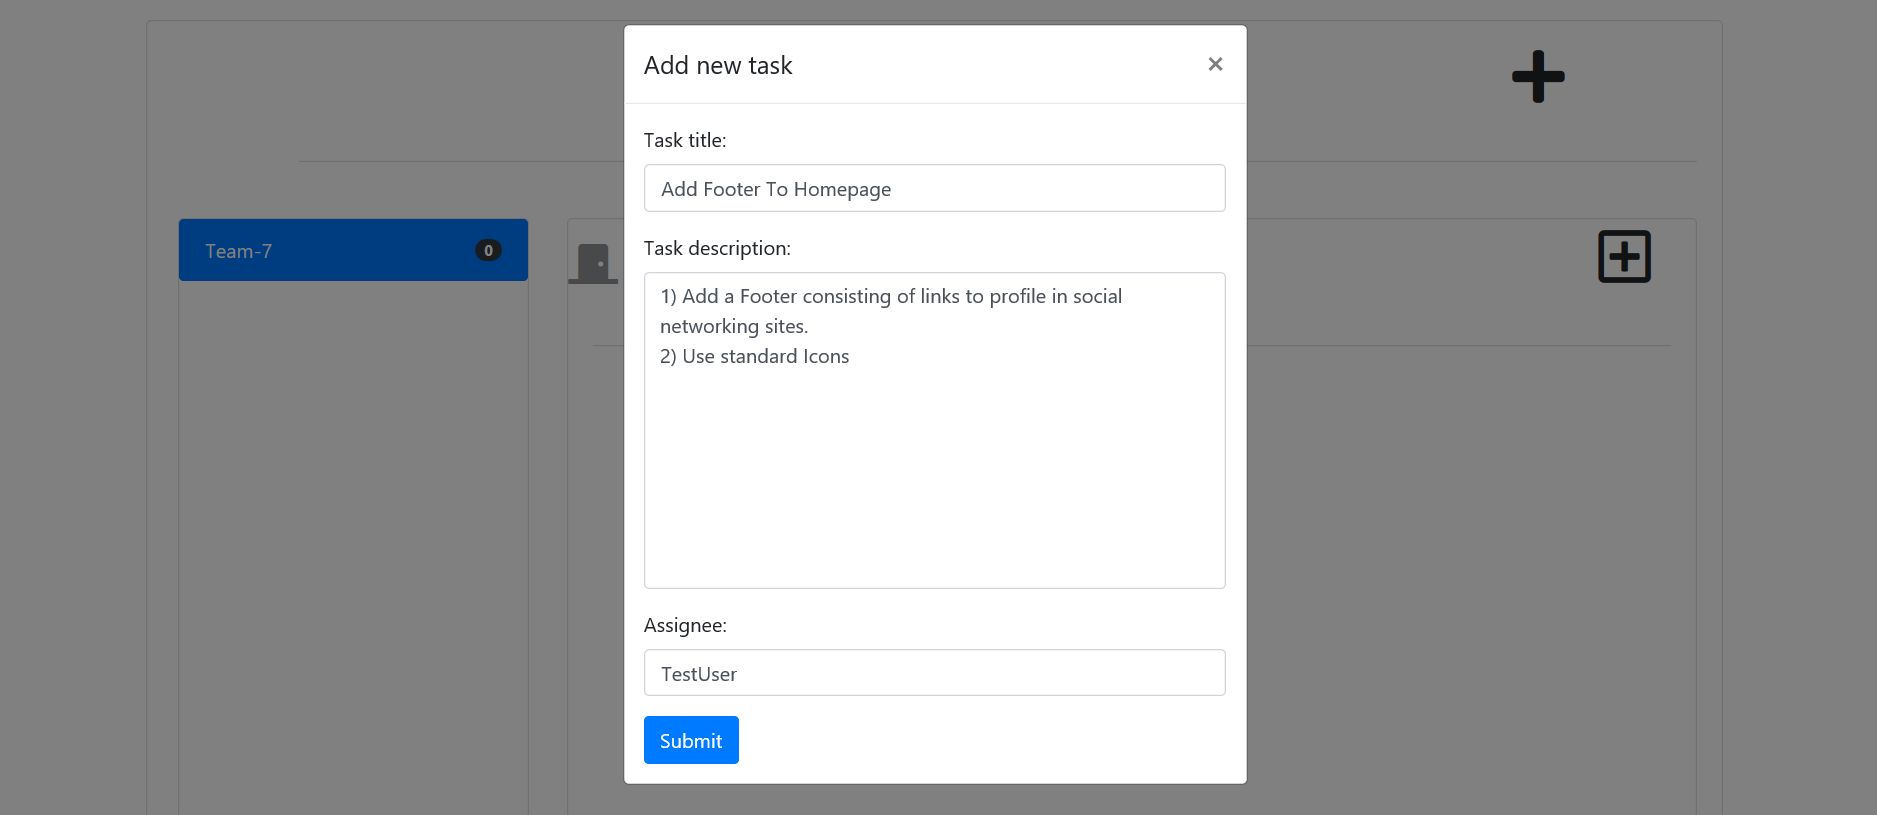
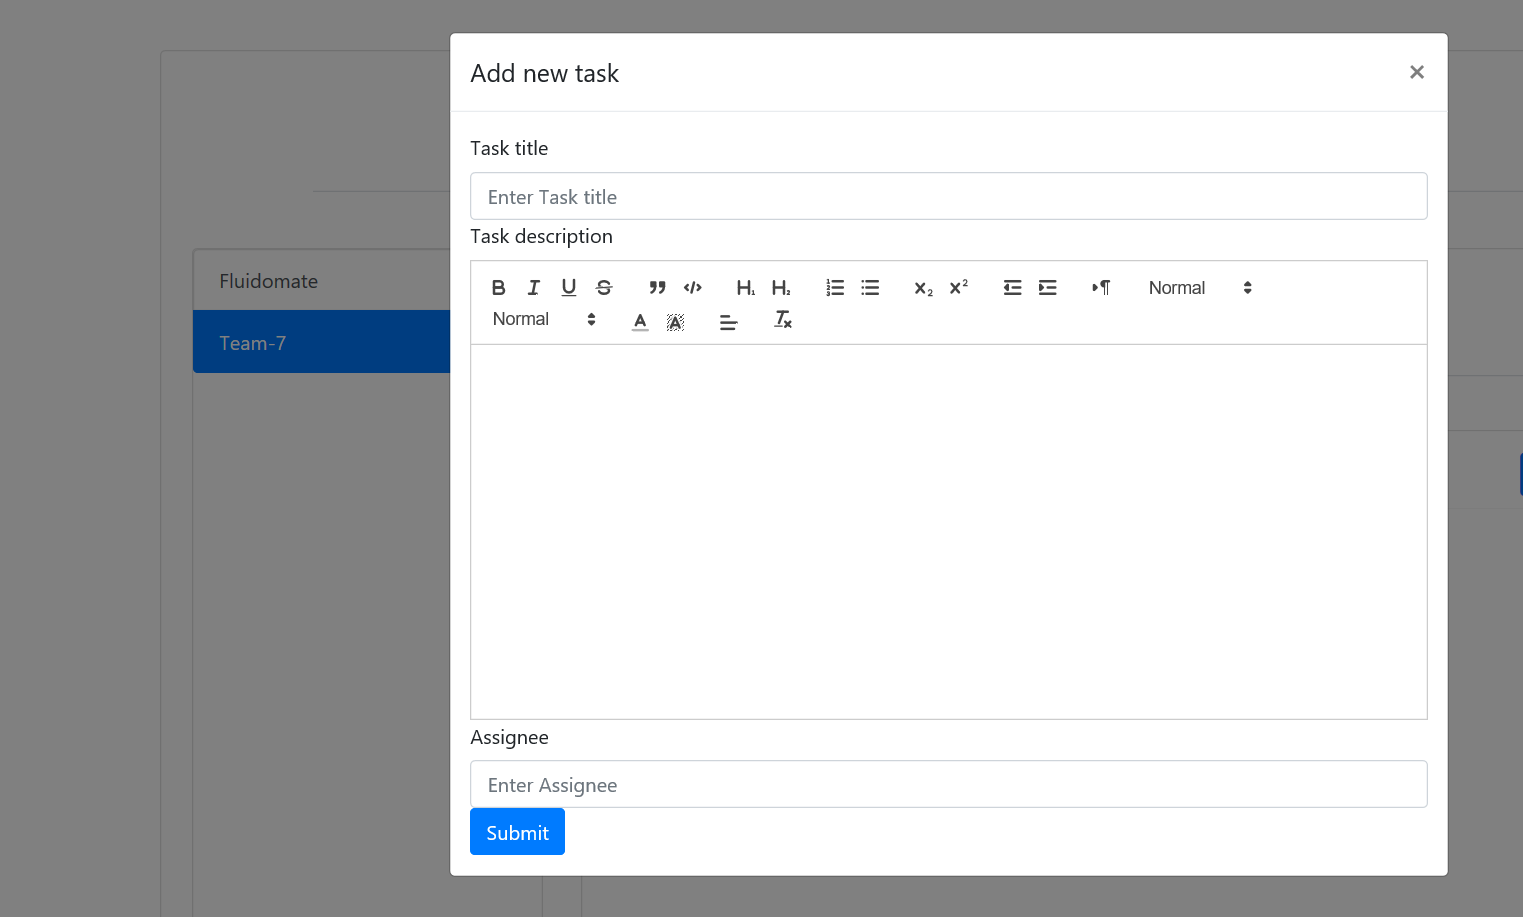
Added Rich text editor(Quill)

diff --git a/Main/templates/Main/team_content.html b/Main/templates/Main/team_content.html
@@ -2,6 +2,8 @@
 
 {% block team_content %}
 
+
+
 {% if title|lower == "members" %}
 
 <!-- Member Page Title -->
@@ -88,8 +90,8 @@
 <div class="card-title d-flex justify-content-center">
         <h4 class="display-5 border-bottom">
             {{title}}
-            <a type="button" data-toggle="modal" data-target="#addMemberModal">
-                <i class="far fa-plus-square fa-2x" aria-hidden="true" style="right:4%;position: absolute;top:1%;" title="Add new task" data-toggle="tooltip"></i>
+            <a  type="button" data-toggle="modal" data-target="#addMemberModal">
+                <i id="loadToolbar-modal" class="far fa-plus-square fa-2x" aria-hidden="true" style="right:4%;position: absolute;top:1%;" title="Add new task" data-toggle="tooltip"></i>
             </a>
         </h4>
     </div>
@@ -126,6 +128,7 @@
                         </span>
 
                       </span>
+                    
 
                     {% if task.assignee == user %}
                     <!-- Task Finished Button -->
@@ -150,7 +153,10 @@
                     Description
                   </h6>
                   <div class="ml-4 " style="line-height:1.8">
-                      {{task.description|linebreaks}}
+                    {% autoescape off %}
+                    {{task.description|linebreaks}}
+                    {% endautoescape %}
+
                   </div>
                   <!-- Comment section -->
                   
@@ -187,15 +193,15 @@
                   </div>
                 </div>
               </div>
+              {% endfor %}
             </div>
-        {% endfor %}
     </div>
 
  
     
     <!-- Add new task Modal -->
     <div class="modal fade" id="addMemberModal" tabindex="-1" role="dialog">
-        <div class="modal-dialog" role="document">
+        <div class="modal-dialog modal-lg" role="document">
             <div class="modal-content">
                 <div class="modal-header">
                     <h5 class="modal-title">Add new task</h5>
@@ -204,10 +210,21 @@
                         </button>
                 </div>
                 <div class="modal-body">
-                    <form method="post">
-                            {% csrf_token %}
-                            {{ add_task_form.as_p }}
-                            <button type="submit" class="btn btn-primary">Submit</button>
+                    <form method="post" id="TaskForm">
+                            {% csrf_token %}                                                               
+                            {% for field in add_task_form %}
+                              <label for="{{field.label}}">{{field.label}}</label>
+                              {% if field.html_name == "addTaskFromTeam-task_description" %}
+                              <div class="editor" contenteditable="true" style="height: 300px">
+                              </div>
+                              <input type="hidden" cols="40" rows="15"  name="{{field.html_name}}" id="{{field.id_for_label}}" class="form-control descArea">
+                              {% else %}
+                              <input type="text"  name="{{field.html_name}}" id="{{field.id_for_label}}" class="form-control" placeholder="Enter {{field.label}}" aria-describedby="helpId">
+                              {% endif %}
+                              <small id="helpId" class="text-muted">{{field.help_text}}</small>
+                            {% endfor %}      
+                            <!-- {{add_task_form.as_p}} -->
+                            <button type="submit" class="btn btn-primary" id='submitTask'>Submit</button>
                     </form>
                 </div>
             </div>

diff --git a/Main/templates/Main/view_tasks.html b/Main/templates/Main/view_tasks.html
@@ -6,7 +6,7 @@
       Tasks
     </h4>
     <a type="button" data-toggle="modal" data-target="#new-user-task">
-        <i class="far fa-plus-square fa-3x" aria-hidden="true" style="right:8%;position: absolute;top:8%;">
+        <i id="loadToolbar-modal" class="far fa-plus-square fa-3x" aria-hidden="true" style="right:8%;position: absolute;top:8%;">
         <sup class="text-muted" style="font-size: 18px">Add new task</sup>
         
         </i>
@@ -48,7 +48,9 @@
                 Description
               </h6>
               <div class="ml-4 " style="line-height:1.8">
+                {% autoescape off %}
                   {{task.description|linebreaks}}
+                {% endautoescape %}
               </div>
               <!-- Comment section -->
               
@@ -88,7 +90,7 @@
     {% endfor %}
     <!-- Modal -->
     <div class="modal fade" id="new-user-task" tabindex="-1" role="dialog" aria-labelledby="new-user-task" aria-hidden="true">
-      <div class="modal-dialog" role="document">
+      <div class="modal-dialog modal-lg" role="document">
         <div class="modal-content">
             <div class="modal-header">
                 <h5 class="modal-title">Add new task</h5>
@@ -98,10 +100,20 @@
               </div>
           <div class="modal-body">
             <div class="container-fluid">
-                <form method="post">
+                <form method="post" id="TaskForm">
                     {% csrf_token %}
-                    {{form_task.as_p}}
-                    <button type="submit" class="btn btn-primary">Submit</button>
+                    {% for field in form_task %}
+                      <label for="{{field.label}}">{{field.label}}</label>
+                      {% if field.html_name == "createUserTask-task_description" %}
+                        <div class="editor" contenteditable="true" style="height: 300px">
+                        </div>
+                        <input type="hidden" cols="40" rows="15"  name="{{field.html_name}}" id="{{field.id_for_label}}" class="form-control descArea ">
+                      {% else %}
+                        <input type="text"  name="{{field.html_name}}" id="{{field.id_for_label}}" class="form-control" placeholder="Enter {{field.label}}" aria-describedby="helpId">
+                      {% endif %}
+                        <small id="helpId" class="text-muted">{{field.help_text}}</small>
+                    {% endfor %}                          
+                    <button type="submit" class="btn btn-primary mt-4" >Submit</button>
                   </form>
             </div>
           </div>

diff --git a/static/js/base.js b/static/js/base.js
@@ -61,7 +61,43 @@ $(document).ready(function () {
     // });
 
     $(".alert").alert();
-  
-  
-  
+
+    $('#loadToolbar-modal').one('click',function(){
+      console.log("inside the onclikc")
+      var toolbarOptions = [
+        ['bold', 'italic', 'underline', 'strike'],        // toggled buttons
+        ['blockquote', 'code-block'],
+      
+        [{ 'header': 1 }, { 'header': 2 }],               // custom button values
+        [{ 'list': 'ordered'}, { 'list': 'bullet' }],
+        [{ 'script': 'sub'}, { 'script': 'super' }],      // superscript/subscript
+        [{ 'indent': '-1'}, { 'indent': '+1' }],          // outdent/indent
+        [{ 'direction': 'rtl' }],                         // text direction
+      
+        [{ 'size': ['small', false, 'large', 'huge'] }],  // custom dropdown
+        [{ 'header': [1, 2, 3, 4, 5, 6, false] }],
+      
+        [{ 'color': [] }, { 'background': [] }],          // dropdown with defaults from theme
+        [{ 'align': [] }],
+      
+        ['clean']                                         // remove formatting button
+      ];
+      
+      var quill = new Quill('.editor', {
+        modules: {
+          toolbar: toolbarOptions
+        },
+        theme: 'snow'
+      });
+    
+    });
+
+
+    $("#TaskForm").on("submit", function () {
+      var hvalue = $("#TaskForm div .ql-editor").html();
+      var area = $("#TaskForm .descArea");
+      area.val(hvalue);
+     }); 
   });
+
+
